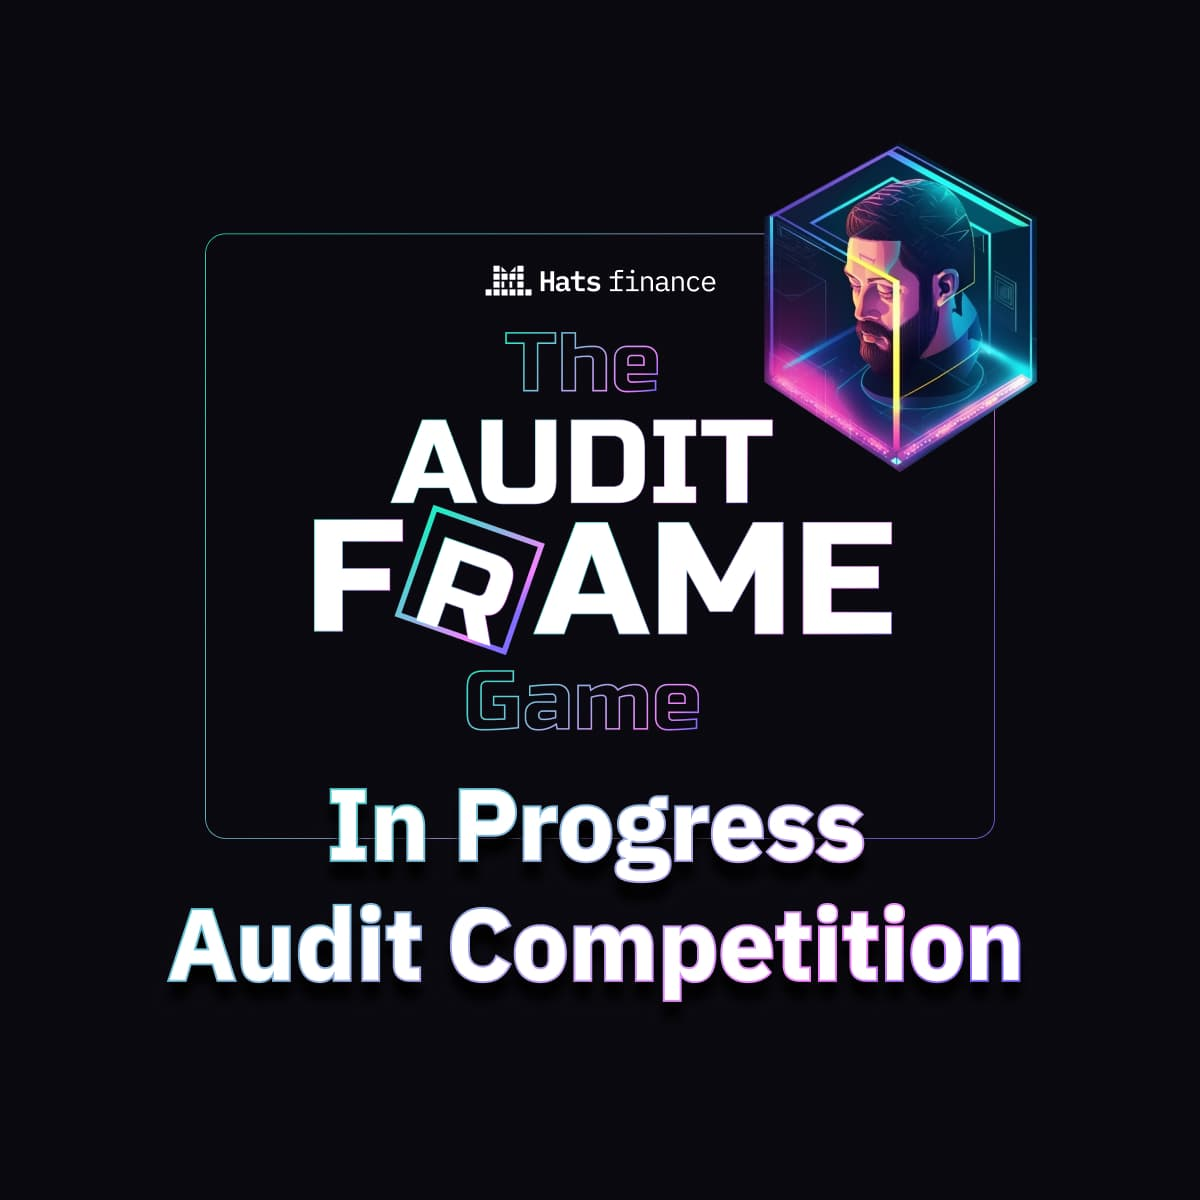
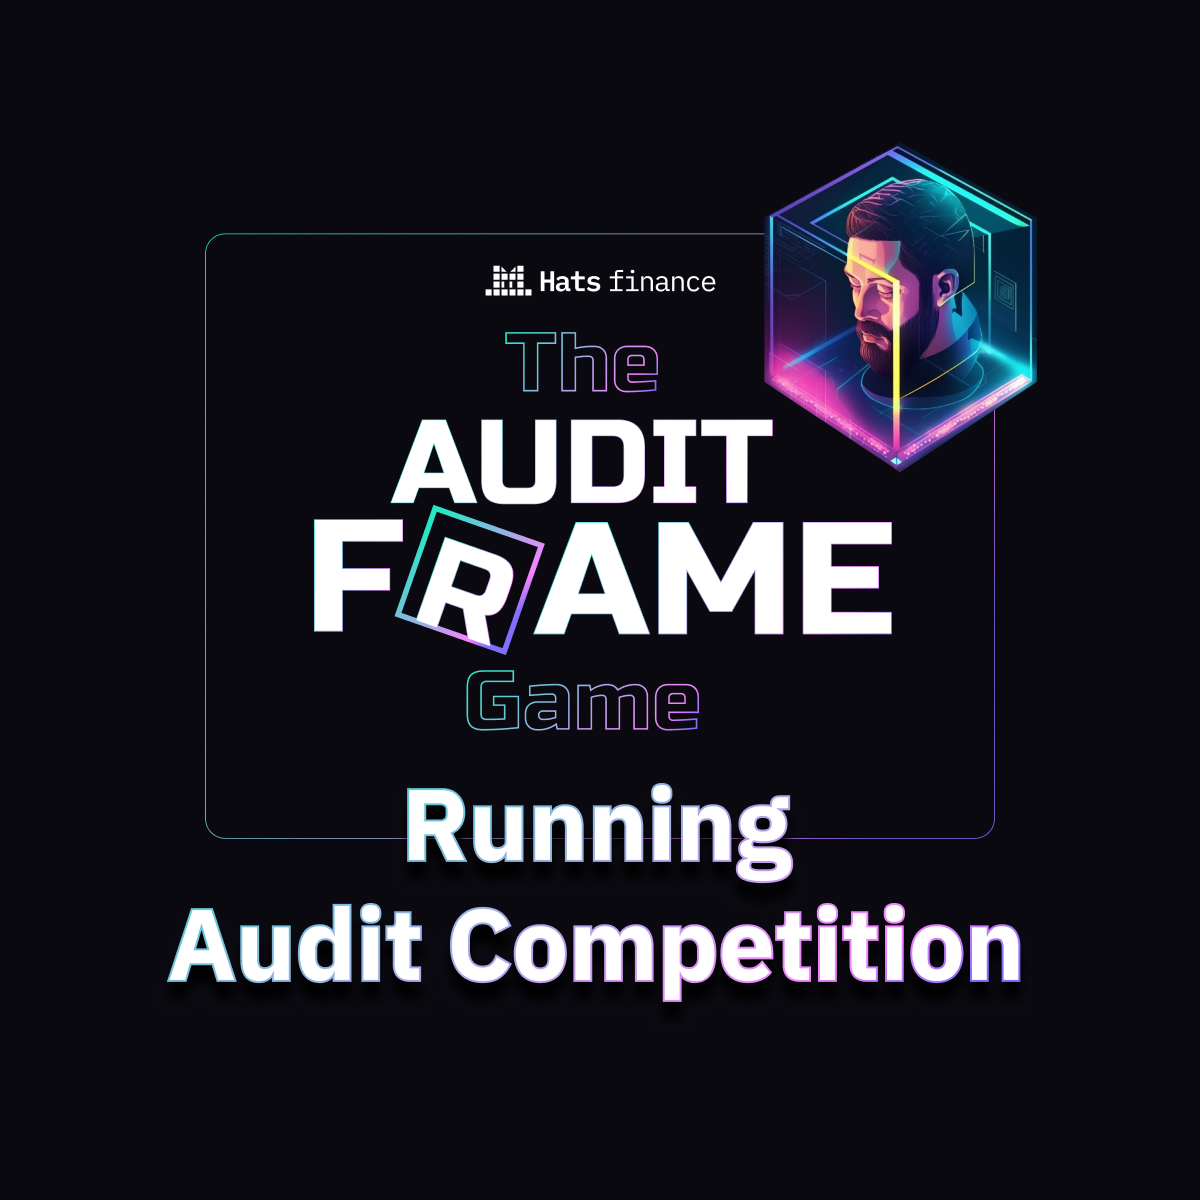
new advances

diff --git a/src/app/api/start/route.ts b/src/app/api/start/route.ts
@@ -11,6 +11,7 @@ import { IHackerProfile } from "@hats.finance/shared";
 
 export async function POST(req: NextRequest): Promise<Response> {
   const body: FrameRequest = await req.json();
+  const { searchParams } = new URL(req.url);
 
   const { isValid, message } = await getFrameMessage(body);
 
@@ -19,9 +20,13 @@ export async function POST(req: NextRequest): Promise<Response> {
     throw new Error("Invalid frame request");
   }
 
+  const goToResultsData = searchParams.get("goToResults");
+  const goToResults = JSON.parse(goToResultsData || "false") as boolean;
+
   const user = await getUserFromMessage(message);
   const userToSend = encodeURIComponent(JSON.stringify(user));
-  const hasUserLikedOrRecasted = user.liked || user.recasted;
+  // const hasUserLikedOrRecasted = user.liked || user.recasted;
+  const hasUserLikedOrRecasted = true;
 
   // Check if user already voted
   const userVote = await getUserVote(body);
@@ -31,9 +36,7 @@ export async function POST(req: NextRequest): Promise<Response> {
     const editSessionIdOrAddress = getEditSessionIdOrAddressFromMessage(message);
     const competitionData = await getEditSessionByAddressOrId(editSessionIdOrAddress);
     const allOptedInUsers = competitionData?.optedInUsers ?? [];
-    // const optedInUsersOnLeaderboard = allOptedInUsers.filter((u) =>
-    //   leaderboard.find((l) => l.username?.toLowerCase() === u.toLowerCase())
-    // );
+    const allFarcasterVoters = competitionData?.farcasterVoters ?? [];
     const allProfiles = await getAllProfiles();
 
     let hackersProfiles = allOptedInUsers.map((username) => {
@@ -48,6 +51,10 @@ export async function POST(req: NextRequest): Promise<Response> {
         highestSeverity: leaderboardStats?.highestSeverity,
         totalAmountRewards: leaderboardStats?.totalAmount.usd,
         totalFindings: leaderboardStats?.totalSubmissions,
+        votedPoints: allFarcasterVoters
+          .filter((v) => v.vote.toLowerCase() === profile.username.toLowerCase())
+          .reduce((acc, v) => acc + v.points, 0),
+        voters: allFarcasterVoters.filter((v) => v.vote.toLowerCase() === profile.username.toLowerCase()).length ?? 0,
       } as IProfileData;
     });
     hackersProfiles.sort((a, b) => (b.totalAmountRewards ?? 0) - (a.totalAmountRewards ?? 0));
@@ -72,6 +79,50 @@ export async function POST(req: NextRequest): Promise<Response> {
             <meta property="og:image" content="${config.hostURL}/game/voted?user=${userToSend}&hacker=${votedHackerToSend}" />
             <meta property="fc:frame:button:1" content="See Real-Time Votes ➡" />
             <meta property="fc:frame:post_url" content="${config.hostURL}/api/results" />
+        </head>
+    </html>
+  `);
+  }
+
+  if (goToResults) {
+    const editSessionIdOrAddress = getEditSessionIdOrAddressFromMessage(message);
+    const competitionData = await getEditSessionByAddressOrId(editSessionIdOrAddress);
+    const allOptedInUsers = competitionData?.optedInUsers ?? [];
+    const allFarcasterVoters = competitionData?.farcasterVoters ?? [];
+    const allProfiles = await getAllProfiles();
+
+    let hackersProfiles = allOptedInUsers.map((username) => {
+      const profile = allProfiles.find((p) => p.username.toLowerCase() === username.toLowerCase()) as IHackerProfile;
+
+      return {
+        idx: undefined,
+        username: profile.username,
+        avatar: profile.avatar,
+        github: profile.github_username,
+        highestSeverity: "",
+        totalAmountRewards: 0,
+        totalFindings: 0,
+        votedPoints: allFarcasterVoters
+          .filter((v) => v.vote.toLowerCase() === profile.username.toLowerCase())
+          .reduce((acc, v) => acc + v.points, 0),
+        voters: allFarcasterVoters.filter((v) => v.vote.toLowerCase() === profile.username.toLowerCase()).length ?? 0,
+      } as IProfileData;
+    });
+    hackersProfiles = hackersProfiles.filter((p) => p.votedPoints && p.votedPoints > 0);
+    hackersProfiles.sort((a, b) => (b.votedPoints ?? 0) - (a.votedPoints ?? 0));
+
+    const profilesToSend = encodeURIComponent(JSON.stringify(hackersProfiles.slice(0, 5)));
+
+    return new NextResponse(`
+    <!DOCTYPE html>
+    <html>
+        <head>
+            <meta property="fc:frame" content="vNext" />
+            <meta property="fc:frame:image:aspect_ratio" content="1:1" />
+            <meta property="fc:frame:image" content="${config.hostURL}/game/results?user=${userToSend}&results=${profilesToSend}" />
+            <meta property="og:image" content="${config.hostURL}/game/results?user=${userToSend}&results=${profilesToSend}" />
+            <meta property="fc:frame:button:1" content="What's next ➡" />
+            <meta property="fc:frame:post_url" content="${config.hostURL}/api/done" />
         </head>
     </html>
   `);

diff --git a/src/app/[addressOrEditSessionId]/page.tsx b/src/app/[addressOrEditSessionId]/page.tsx
@@ -3,8 +3,7 @@ import styles from "./page.module.scss";
 import { Metadata } from "next";
 import { consts } from "@/consts/wording";
 import { getEditSessionByAddressOrId } from "@/data/requests/getEditSessionByAddressOrId";
-import { ICompetitionStatus, getCompetitionStatus } from "@/helpers/getCompetitionStatus";
-import { getCompetitionCountdown } from "@/helpers/getCompetitionCountdown";
+import { ICompetitionData } from "@/data/models";
 
 export const dynamic = "force-dynamic";
 
@@ -14,53 +13,35 @@ type IProps = {
 
 export async function generateMetadata({ params }: IProps): Promise<Metadata> {
   const { addressOrEditSessionId } = params;
+  let competitonData = "null";
+
+  // if (!addressOrEditSessionId.startsWith("0x")) {
   const editSession = await getEditSessionByAddressOrId(addressOrEditSessionId);
-  const competitionStatus = getCompetitionStatus(editSession);
-  const competitionCountDown = getCompetitionCountdown(editSession);
-
-  const statusToFrame: { [K in ICompetitionStatus]: string } = {
-    // coming: "coming-competition",
-    coming: "home",
-    voting: "home",
-    "in-progress": "inprogress-competition",
-    invalid: "invalid-competition",
-    ended: "ended-competition",
-  };
-
-  const statusToPost: { [K in ICompetitionStatus]: string } = {
-    coming: "",
-    voting: `${config.hostURL}/api/start`,
-    // voting: `${config.hostURL}/api/results`,
-    "in-progress": "",
-    invalid: "",
-    ended: "",
-  };
-
-  const statusToButton: { [K in ICompetitionStatus]: string } = {
-    // coming: "Coming soon!",
-    coming: "Let's go!",
-    voting: "Start game!",
-    "in-progress": "Competition in progress. Wait for results.",
-    invalid: "Invalid competition",
-    ended: "Competition ended. Wait for results.",
-  };
-
-  const countdownToSend = encodeURIComponent(JSON.stringify(competitionCountDown ?? null));
+  competitonData = editSession
+    ? encodeURIComponent(
+        JSON.stringify({
+          optedInUsers: editSession.optedInUsers?.length ?? 0,
+          logo: editSession.editedDescription["project-metadata"].icon,
+          name: editSession.editedDescription["project-metadata"].name,
+        } as ICompetitionData)
+      )
+    : "";
+  // }
 
   return {
     title: consts.title,
     description: consts.description,
     openGraph: {
       title: consts.title,
-      images: [`${config.hostURL}/assets/images/home.jpg`],
+      images: [`${config.hostURL}/game/login`],
     },
     metadataBase: new URL(config.hostURL as string),
     other: {
       "fc:frame": "vNext",
       "fc:frame:image:aspect_ratio": "1:1",
-      "fc:frame:image": `${config.hostURL}/game/start?frameImage=${statusToFrame[competitionStatus]}&status=${competitionStatus}&countdown=${countdownToSend}                                                                                    `,
-      "fc:frame:post_url": statusToPost[competitionStatus],
-      "fc:frame:button:1": statusToButton[competitionStatus],
+      "fc:frame:image": `${config.hostURL}/game/login?competition=${competitonData}`,
+      "fc:frame:post_url": `${config.hostURL}/api/login?competition=${competitonData}`,
+      "fc:frame:button:1": "Continue ➡",
     },
   };
 }

diff --git a/src/app/api/login/route.ts b/src/app/api/login/route.ts
@@ -1,0 +1,67 @@
+import { NextRequest, NextResponse } from "next/server";
+import { FrameRequest, getFrameMessage } from "@coinbase/onchainkit";
+import { config } from "@/config/config";
+import { getUserFromMessage } from "@/helpers/getUserFromMessage";
+import { getEditSessionIdOrAddressFromMessage } from "@/helpers/getEditSessionIdOrAddressFromMessage";
+import { getEditSessionByAddressOrId } from "@/data/requests/getEditSessionByAddressOrId";
+import { ICompetitionStatus, getCompetitionStatus } from "@/helpers/getCompetitionStatus";
+import { getCompetitionCountdown } from "@/helpers/getCompetitionCountdown";
+
+export async function POST(req: NextRequest): Promise<Response> {
+  const body: FrameRequest = await req.json();
+
+  const { isValid, message } = await getFrameMessage(body);
+
+  if (!isValid) {
+    console.error(message);
+    throw new Error("Invalid frame request");
+  }
+
+  const user = await getUserFromMessage(message);
+  const userToSend = encodeURIComponent(JSON.stringify(user));
+
+  const addressOrEditSessionId = getEditSessionIdOrAddressFromMessage(message);
+  const editSession = await getEditSessionByAddressOrId(addressOrEditSessionId);
+  const competitionStatus = getCompetitionStatus(editSession);
+  const competitionCountDown = getCompetitionCountdown(editSession);
+
+  const statusToFrame: { [K in ICompetitionStatus]: string } = {
+    coming: "coming-competition",
+    voting: "home",
+    invalid: "invalid-competition",
+    "in-progress": "inprogress-competition",
+    ended: "ended-competition",
+  };
+
+  const statusToPost: { [K in ICompetitionStatus]: string } = {
+    coming: "",
+    voting: `${config.hostURL}/api/start`,
+    invalid: "",
+    "in-progress": `${config.hostURL}/api/start?goToResults=true`,
+    ended: `${config.hostURL}/api/start?goToResults=true`,
+  };
+
+  const statusToButton: { [K in ICompetitionStatus]: string } = {
+    coming: "Coming soon!",
+    voting: "Start game ➡",
+    invalid: "Invalid competition",
+    "in-progress": "See vote and leaderboard ➡",
+    ended: "See vote and leaderboard ➡",
+  };
+
+  const countdownToSend = encodeURIComponent(JSON.stringify(competitionCountDown ?? null));
+
+  return new NextResponse(`
+  <!DOCTYPE html>
+  <html>
+      <head>
+          <meta property="fc:frame" content="vNext" />
+          <meta property="fc:frame:image:aspect_ratio" content="1:1" />
+          <meta property="fc:frame:image" content="${config.hostURL}/game/start?user=${userToSend}&frameImage=${statusToFrame[competitionStatus]}&status=${competitionStatus}&countdown=${countdownToSend}" />
+          <meta property="og:image" content="${config.hostURL}/game/start?user=${userToSend}&frameImage=${statusToFrame[competitionStatus]}&status=${competitionStatus}&countdown=${countdownToSend}" />
+          <meta property="fc:frame:button:1" content="${statusToButton[competitionStatus]}" />
+          <meta property="fc:frame:post_url" content="${statusToPost[competitionStatus]}" />
+      </head>
+  </html>
+`);
+}

diff --git a/src/app/game/login/route.tsx b/src/app/game/login/route.tsx
@@ -1,0 +1,67 @@
+import { ImageResponse } from "next/og";
+import { config } from "@/config/config";
+import { ICompetitionData } from "@/data/models";
+import { ipfsTransformUri } from "@/helpers/ipfsTransformUri";
+
+export const runtime = "experimental-edge";
+
+export async function GET(request: Request) {
+  const IBMPlexMono = await fetch(new URL("/public/assets/IBMPlexMono-Regular.ttf", import.meta.url)).then((res) =>
+    res.arrayBuffer()
+  );
+  const IBMPlexSansBold = await fetch(new URL("/public/assets//IBMPlexSans-Bold.ttf", import.meta.url)).then((res) =>
+    res.arrayBuffer()
+  );
+
+  const { searchParams } = new URL(request.url);
+
+  const competitionData = searchParams.get("competition");
+  const competition = JSON.parse(competitionData || "null") as ICompetitionData | undefined;
+
+  return new ImageResponse(
+    (
+      <div style={{ display: "flex", position: "relative", width: 1000, height: 1000, justifyContent: "center" }}>
+        <img
+          style={{ position: "absolute", top: 0, left: 0, width: 1000, height: 1000 }}
+          src={`${config.hostURL}/assets/images/start.jpg`}
+        />
+
+        {/* COMPETITION DETAILS */}
+        {!!competition && (
+          <div
+            style={{
+              display: "flex",
+              flexDirection: "column",
+              alignItems: "center",
+              position: "absolute",
+              top: "8%",
+              left: "50%",
+              transform: "translateX(-50%)",
+            }}>
+            <div style={{ display: "flex", alignItems: "center" }}>
+              <img src={ipfsTransformUri(competition?.logo)} alt={competition?.name} width={100} height={100} />
+              {/* <img src={`${config.hostURL}/assets/images/placeholder.svg`} alt={competition?.name} width={100} height={100} /> */}
+              <p style={{ color: "white", fontSize: "28px", marginLeft: "20px" }}>{competition?.name}</p>
+            </div>
+          </div>
+        )}
+      </div>
+    ),
+    {
+      width: 1000,
+      height: 1000,
+      fonts: [
+        {
+          name: "IBMPlexMono",
+          data: IBMPlexMono,
+          weight: 400,
+        },
+        {
+          name: "IBMPlexSansBold",
+          data: IBMPlexSansBold,
+          weight: 700,
+        },
+      ],
+    }
+  );
+}

diff --git a/src/app/game/start/route.tsx b/src/app/game/start/route.tsx
@@ -2,6 +2,8 @@ import { ImageResponse } from "next/og";
 import { config } from "@/config/config";
 import { ICompetitionCountdown } from "@/helpers/getCompetitionCountdown";
 import { ICompetitionStatus } from "@/helpers/getCompetitionStatus";
+import { IFarcasterUser } from "@/data/models";
+import { getGamePoints } from "@/helpers/getGamePoints";
 
 export const runtime = "experimental-edge";
 
@@ -15,11 +17,12 @@ export async function GET(request: Request) {
 
   const { searchParams } = new URL(request.url);
 
+  const farcasterUserData = searchParams.get("user");
+  const farcasterUser = JSON.parse(farcasterUserData || "null") as IFarcasterUser | undefined;
+
   const frameImage = (searchParams.get("frameImage") || "null") as string;
   const competitionCountdown = JSON.parse(searchParams.get("countdown") || "null") as ICompetitionCountdown | undefined;
   const competitionStatus = searchParams.get("status") as ICompetitionStatus;
-
-  console.log(competitionCountdown);
 
   return new ImageResponse(
     (
@@ -28,6 +31,12 @@ export async function GET(request: Request) {
           style={{ position: "absolute", top: 0, left: 0, width: 1000, height: 1000 }}
           src={`${config.hostURL}/assets/images/${frameImage}.jpg`}
         />
+        <p style={{ color: "white", fontSize: "30px", position: "absolute", top: 10, left: 40 }}>
+          Game points: {getGamePoints(farcasterUser)}
+        </p>
+        <p style={{ color: "white", fontSize: "30px", position: "absolute", top: 10, right: 40 }}>
+          HATs points: {farcasterUser?.hatsPoints ?? 0}
+        </p>
 
         {/* COUNTDOWN */}
         {(competitionStatus === "coming" || competitionStatus === "voting") && !!competitionCountdown && (

diff --git a/src/app/api/results/route.ts b/src/app/api/results/route.ts
@@ -8,8 +8,6 @@ import { IHackerProfile } from "@hats.finance/shared";
 import { getAllProfiles } from "@/data/requests/getAllProfiles";
 import { IProfileData } from "@/data/models";
 
-const HACKER_TO_SHOW = 5;
-
 export async function POST(req: NextRequest): Promise<Response> {
   const body: FrameRequest = await req.json();
 
@@ -50,7 +48,7 @@ export async function POST(req: NextRequest): Promise<Response> {
   hackersProfiles = hackersProfiles.filter((p) => p.votedPoints && p.votedPoints > 0);
   hackersProfiles.sort((a, b) => (b.votedPoints ?? 0) - (a.votedPoints ?? 0));
 
-  const profilesToSend = encodeURIComponent(JSON.stringify(hackersProfiles.slice(0, HACKER_TO_SHOW)));
+  const profilesToSend = encodeURIComponent(JSON.stringify(hackersProfiles.slice(0, 5)));
 
   return new NextResponse(`
   <!DOCTYPE html>

diff --git a/src/data/requests/getEditSessionByAddressOrId.ts b/src/data/requests/getEditSessionByAddressOrId.ts
@@ -21,6 +21,7 @@ export const getEditSessionByAddressOrId = async (addressOrEditSessionId: string
       return editSession;
     }
   } catch (error) {
+    console.log("uyy");
     console.log(error);
     return null;
   }
